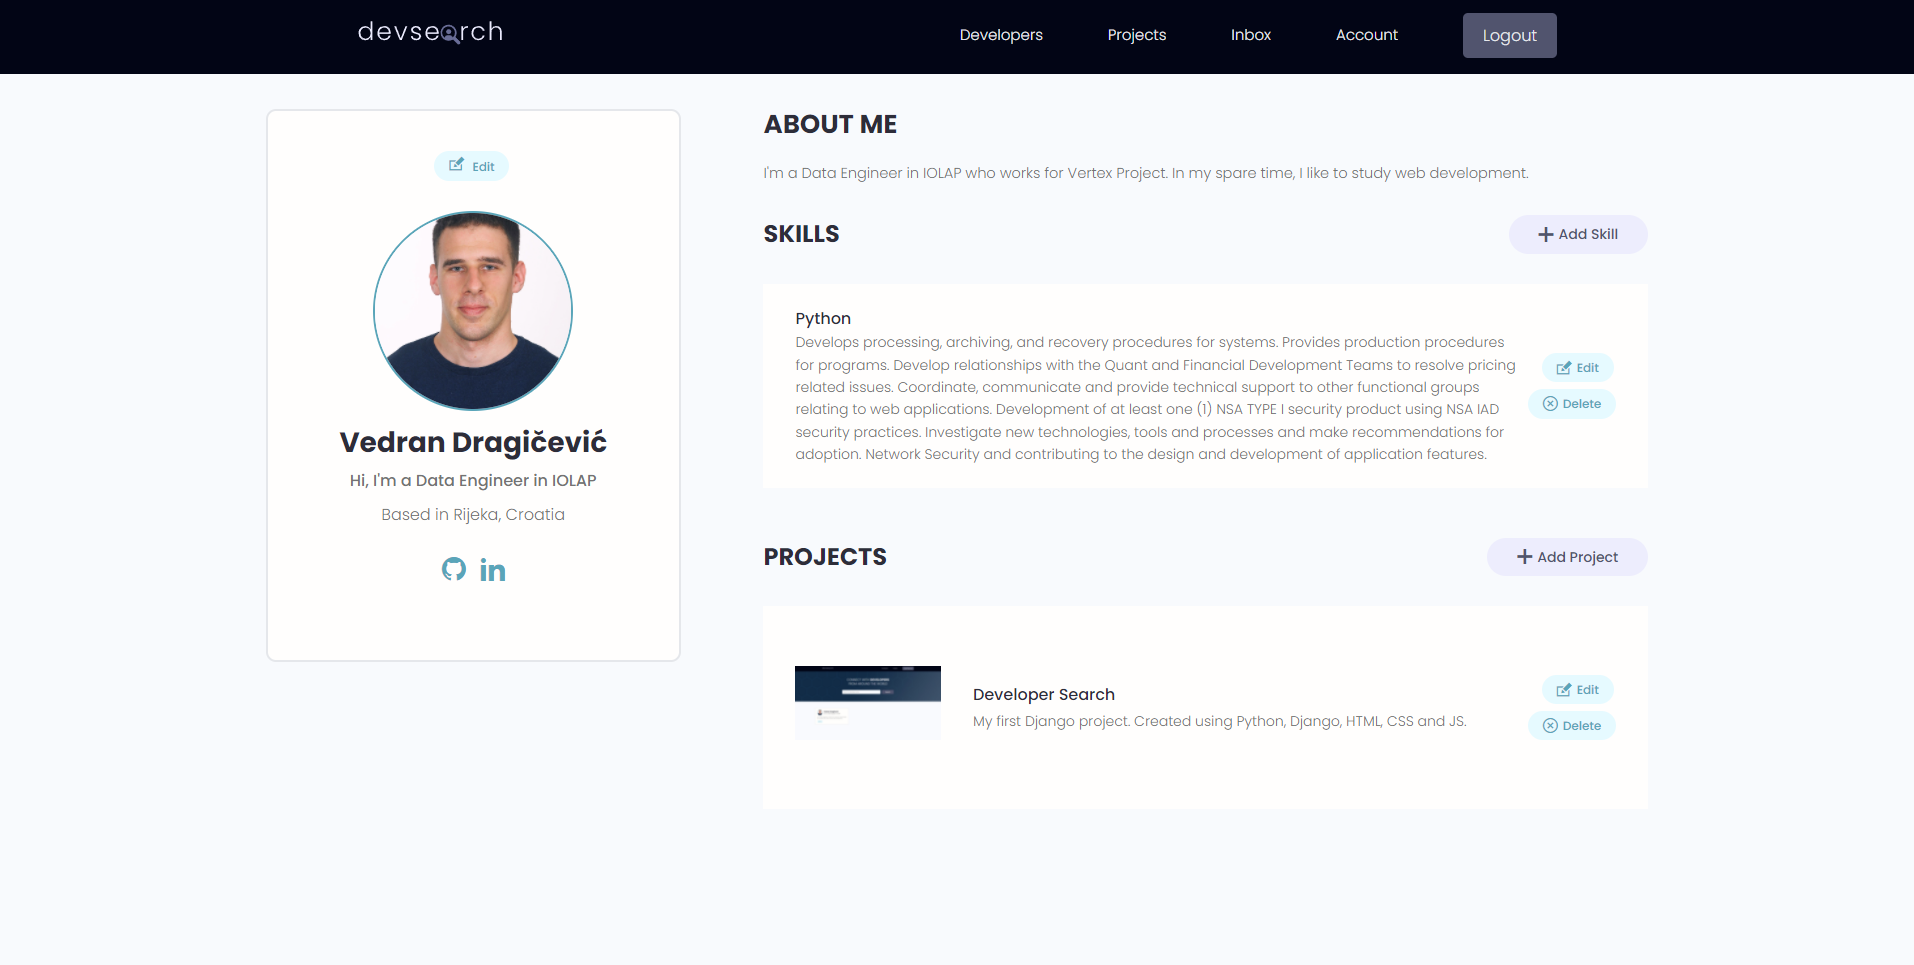
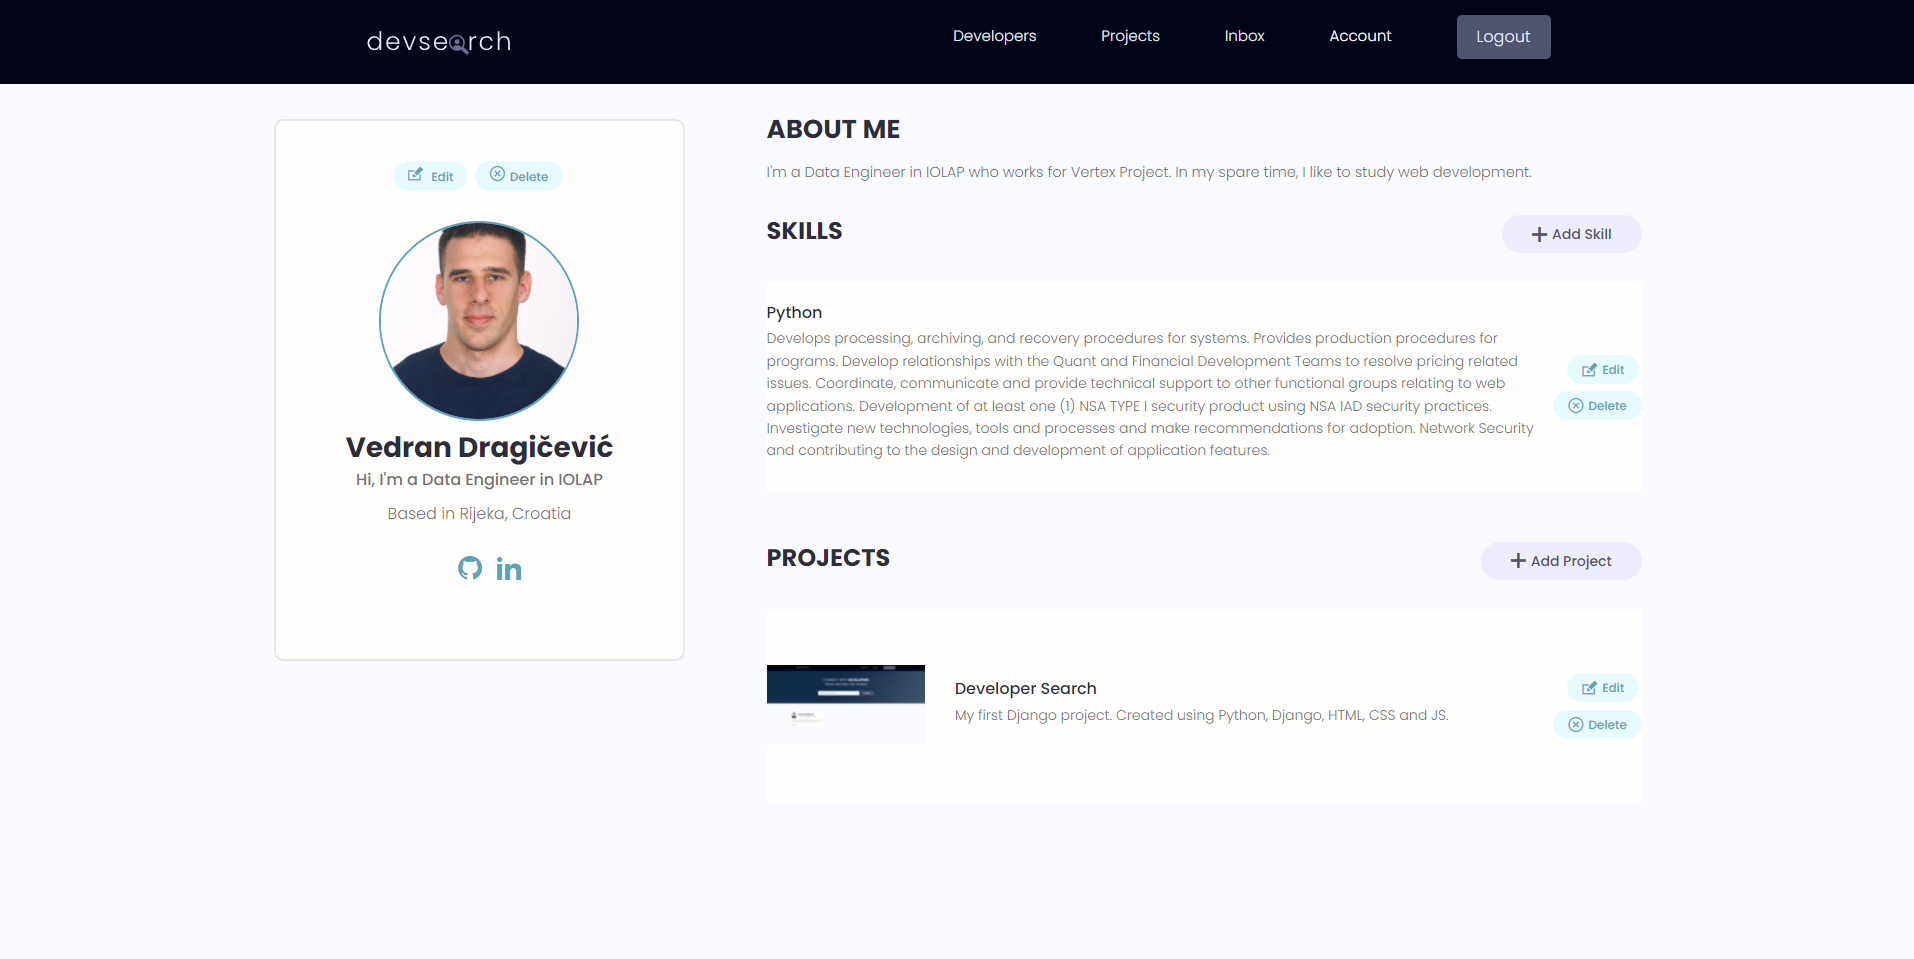
updated readme

diff --git a/README.md b/README.md
@@ -16,18 +16,18 @@ Key elements of the course:
     Django Framework With Building Projects
     </li>
     <li>
-    Write scripts for general productivity tasks Read and comprehend Python code Gain knowledge in regard to general programming concepts
+    Write scripts for general productivity tasks and gain knowledge in regard to general programming concepts
     </li>
 </ul>
-<br>Web application has modified CSS and more features than the one in the course. Application was built using Django, Python, HTML, CSS and JS.<br>
+<br>Web application has modified **CSS** and more features than the one in the course. Application was built using **Django**, **Python**, **HTML**, **BOOTSTRAP** and **JS**.<br>
 <hr>
 Udemy course URL (https://www.udemy.com/course/python-and-django-for-beginners/).
 <hr>
 <h3>Main Page</hr>
 <br><br>
-<p><img src="static/images/main_page.jpg" style="max-width: 100%;"> </p>
+<p><img src="static/images/index_page.png" style="max-width: 100%;"> </p>
 <hr>
-<h3>Login Page</hr>
+<h3>Account Page</hr>
 <br><br>
-<p><img src="static/images/login_page.png" style="max-width: 100%;"> </p>
+<p><img src="static/images/account_page.png" style="max-width: 100%;"> </p>
 
